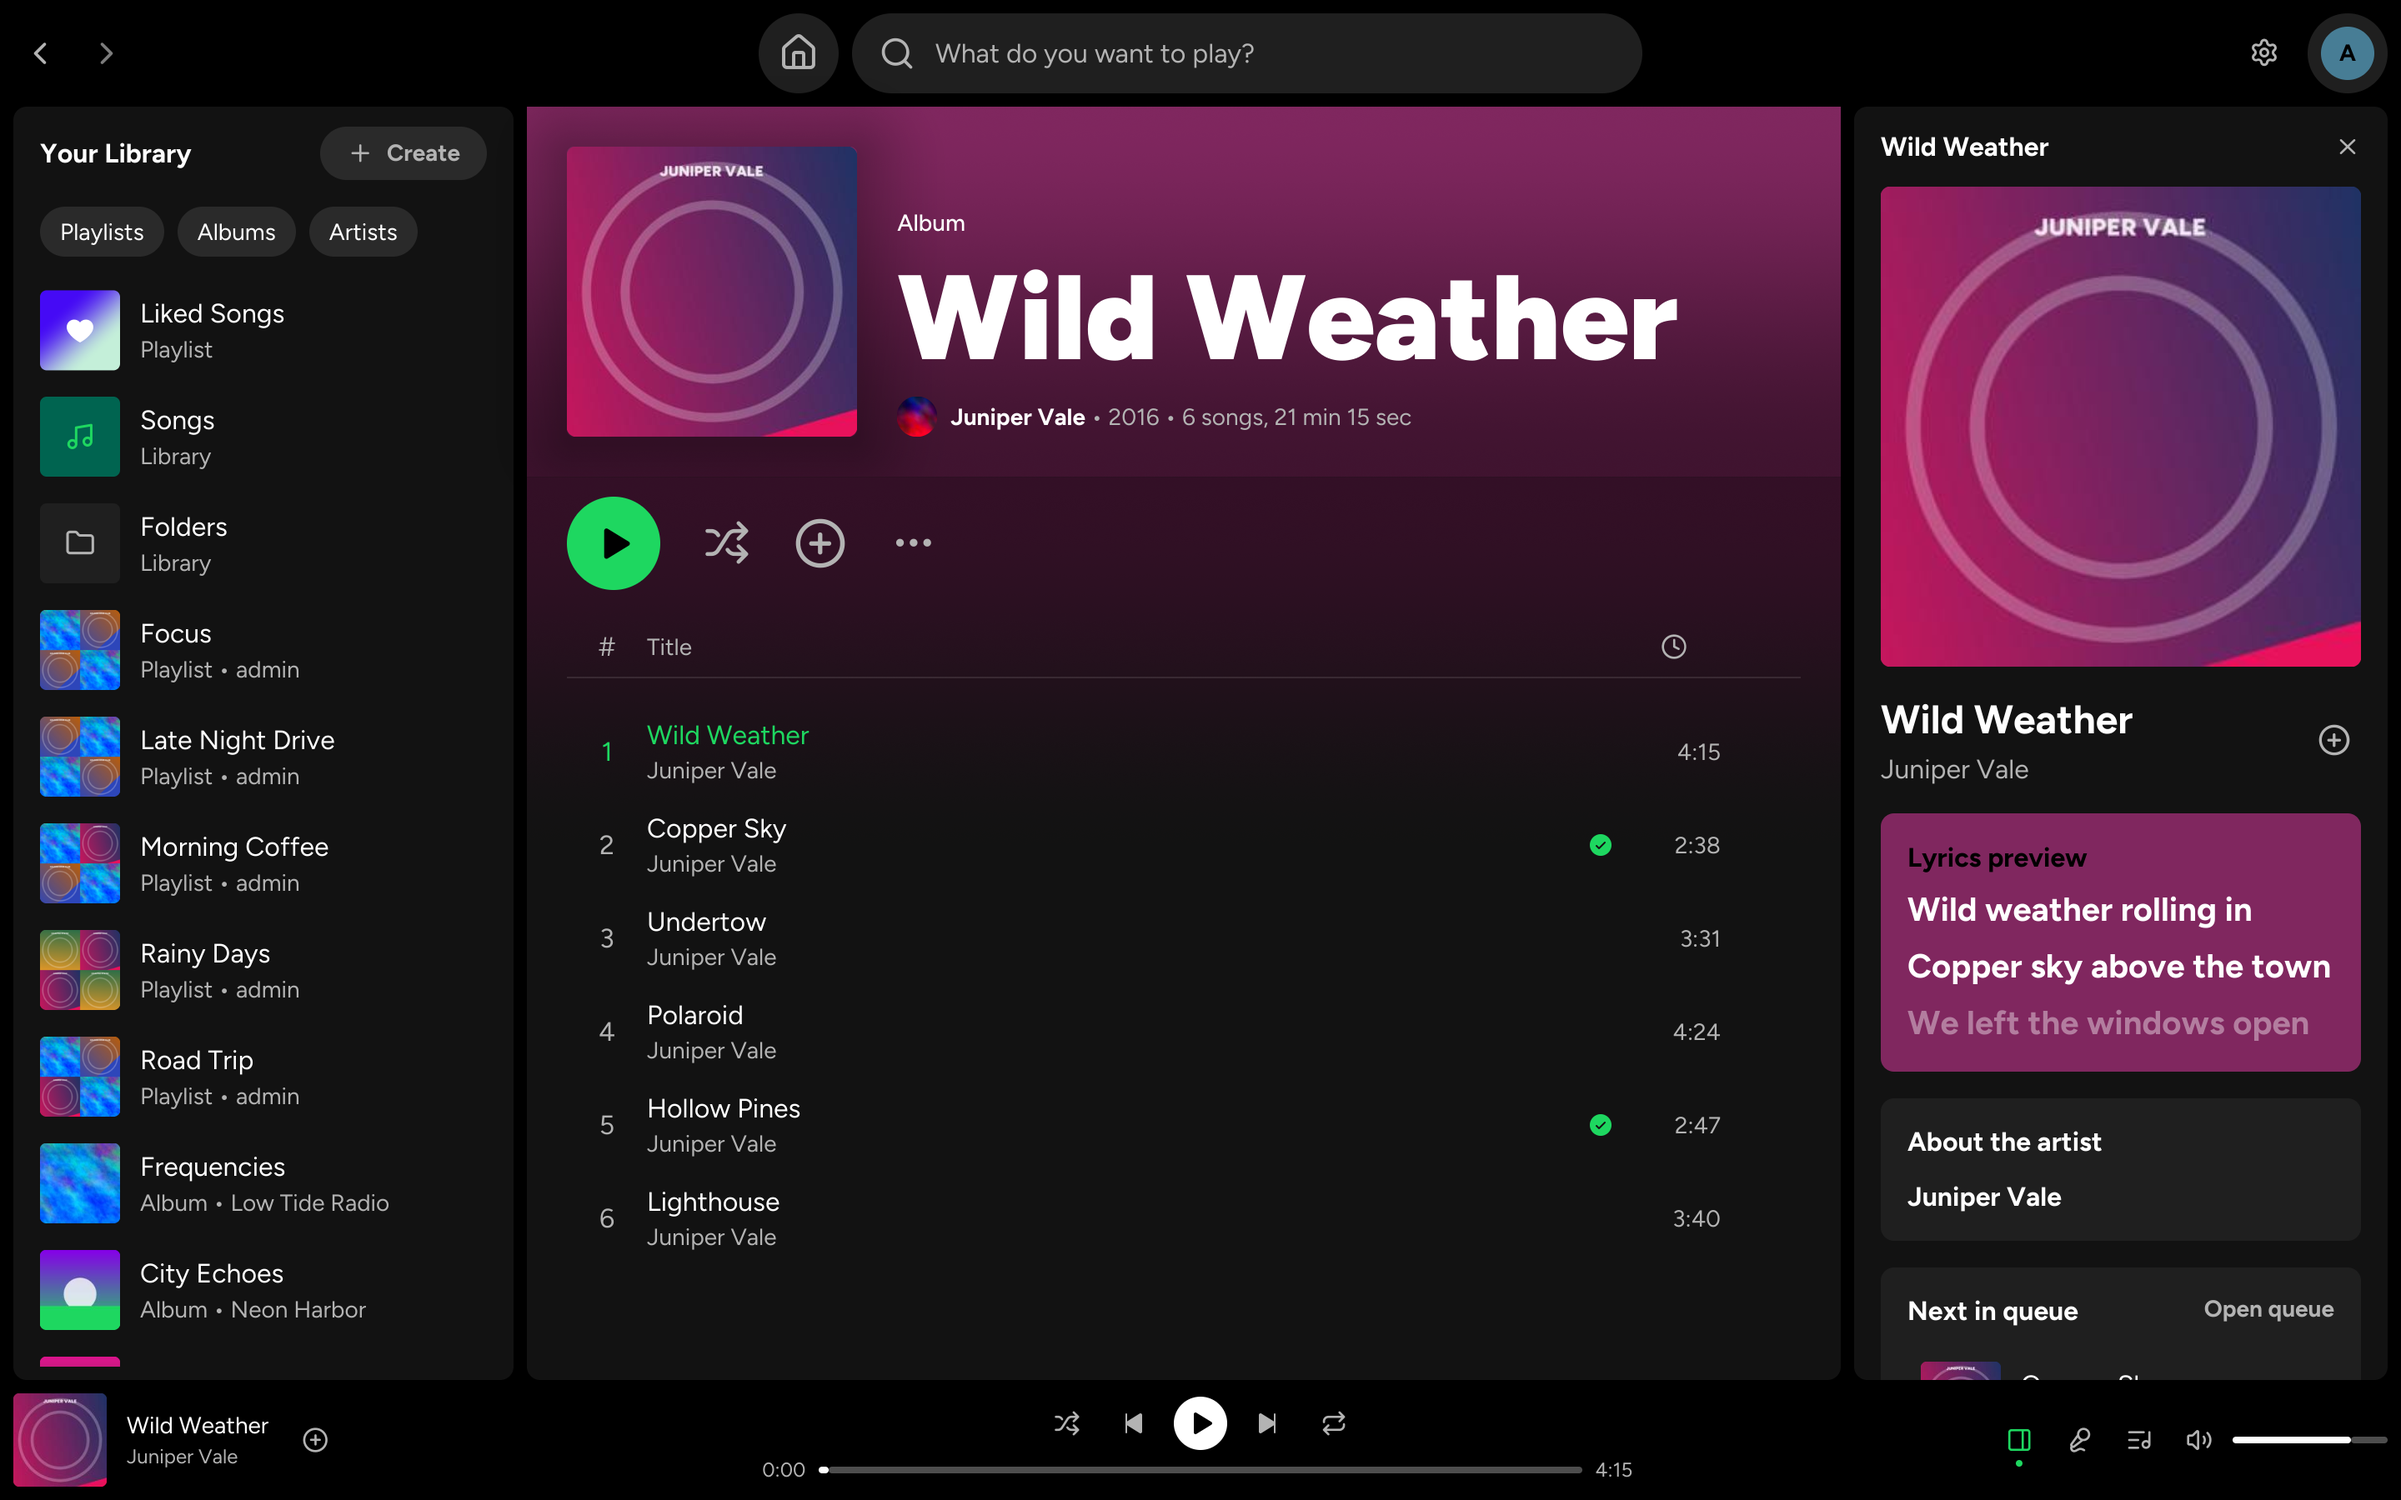
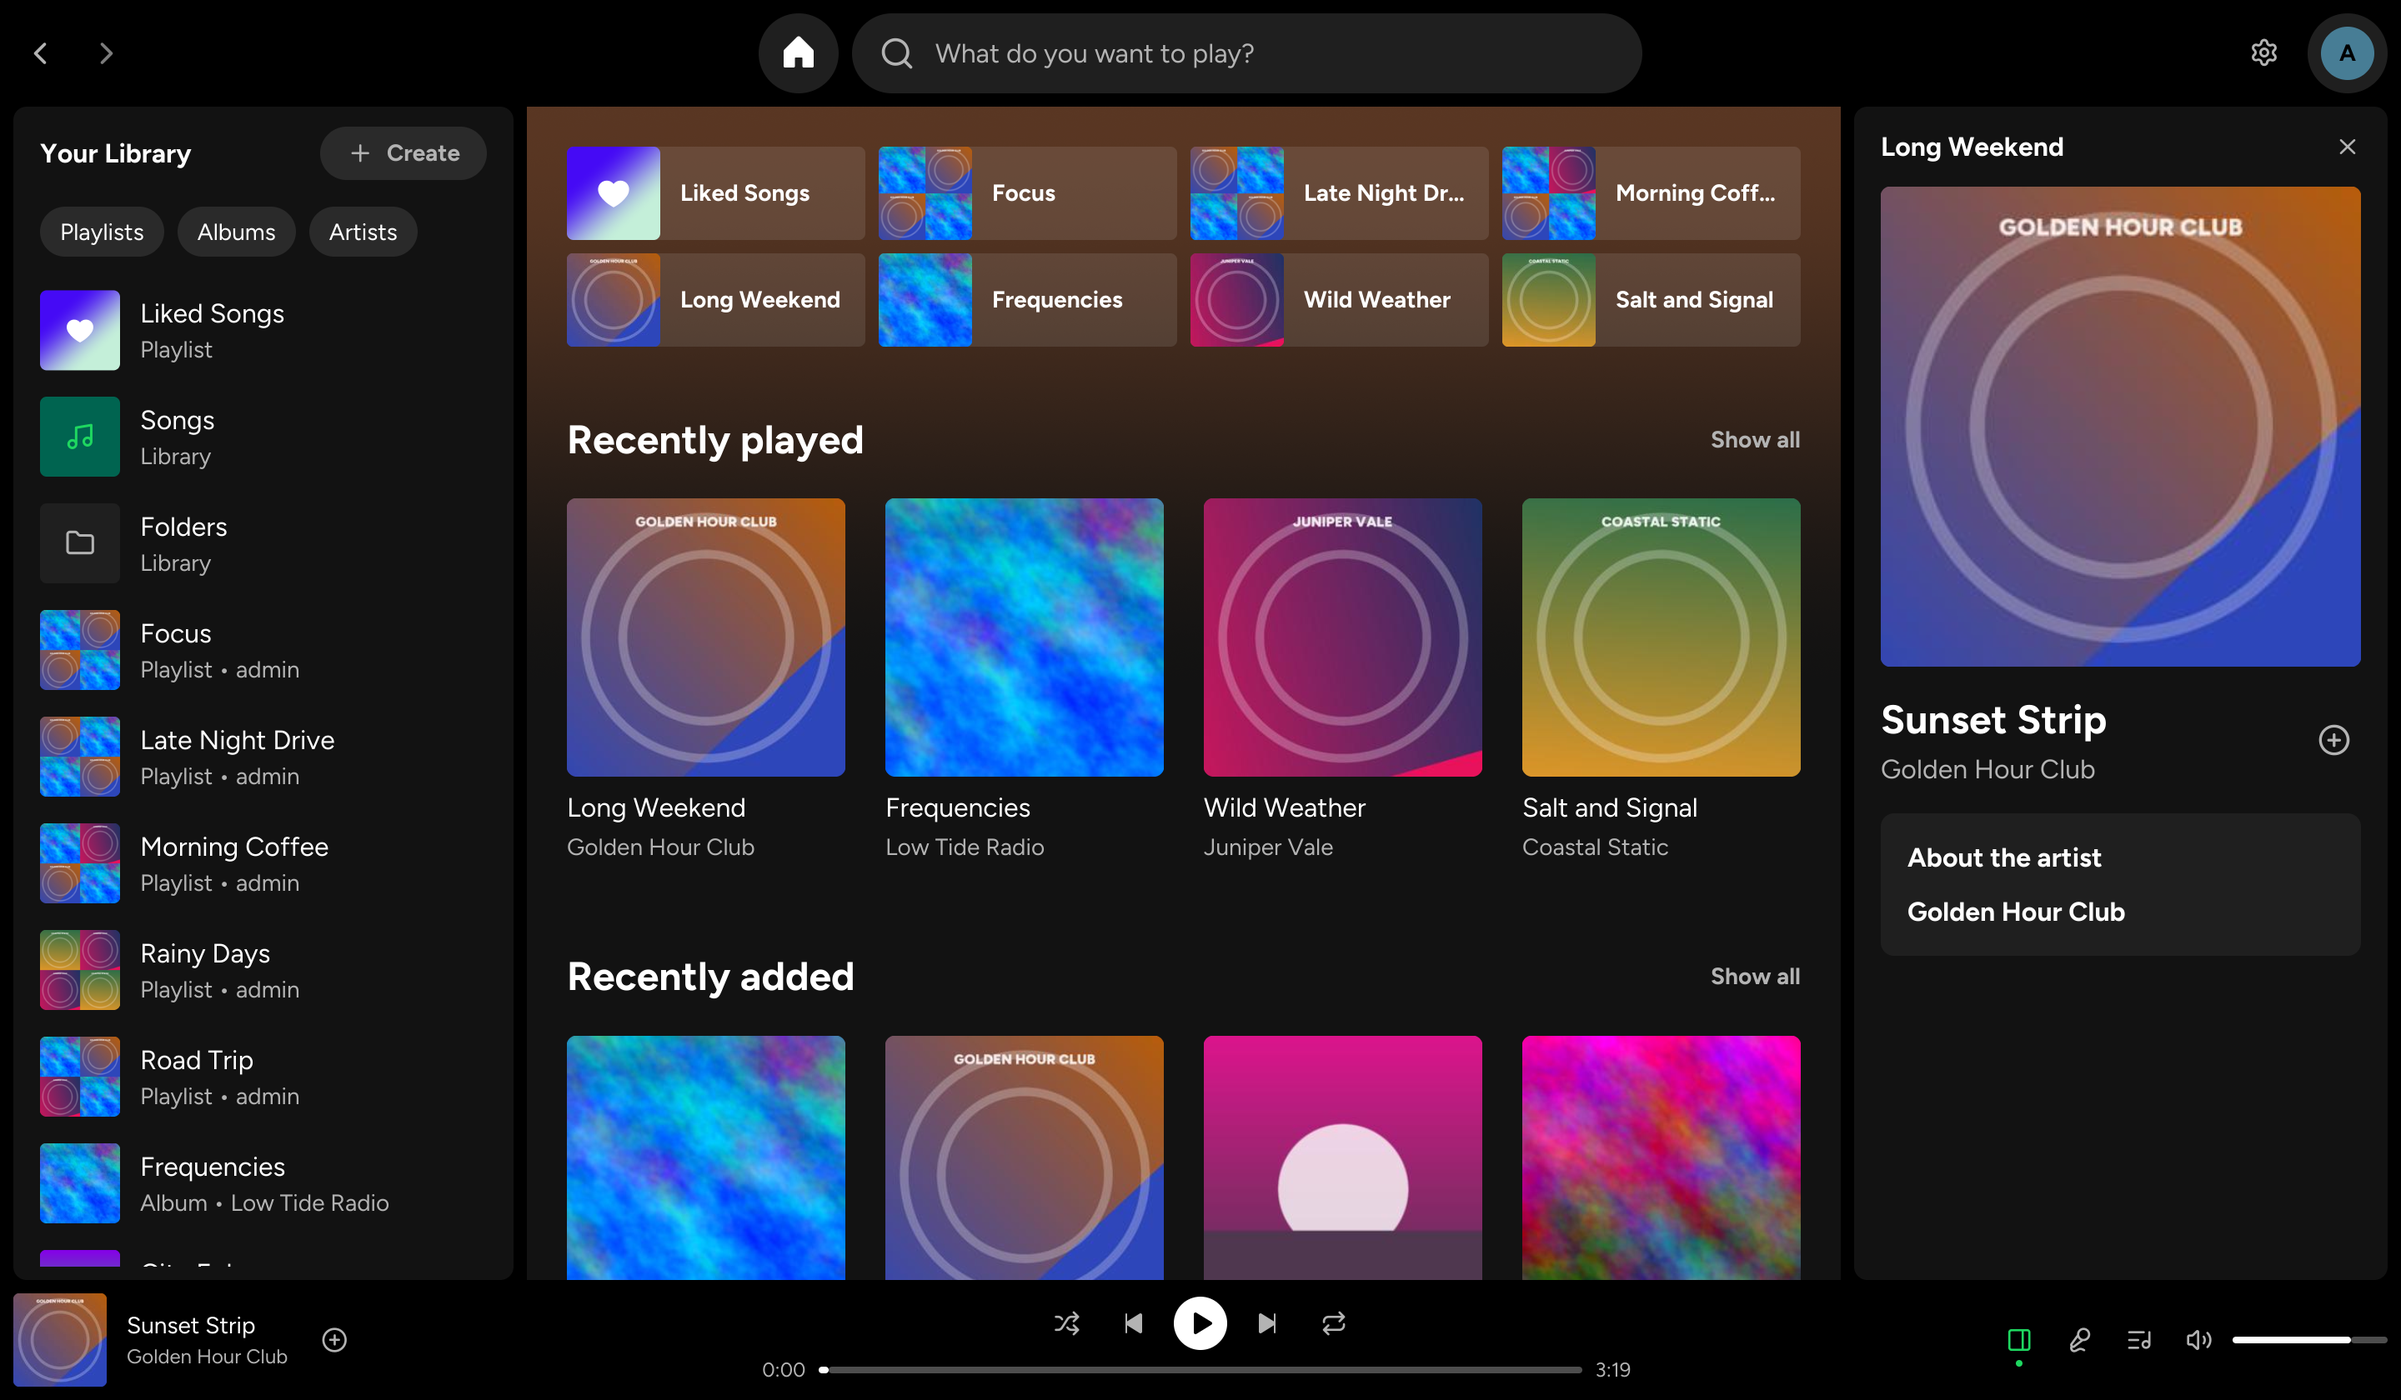
Use a screenshot of a demo library in the README. All names and covers in it are generated.

diff --git a/README.md b/README.md
@@ -16,7 +16,7 @@
 </p>
 
 <p align="center">
-  <img src="docs/screenshot.png" alt="Navify shows an album page, the library panel, and the Now Playing panel">
+  <img src="docs/screenshot.png" alt="Navify shows the home page of a demo library, the library panel, and the Now Playing panel">
 </p>
 
 ## Features
